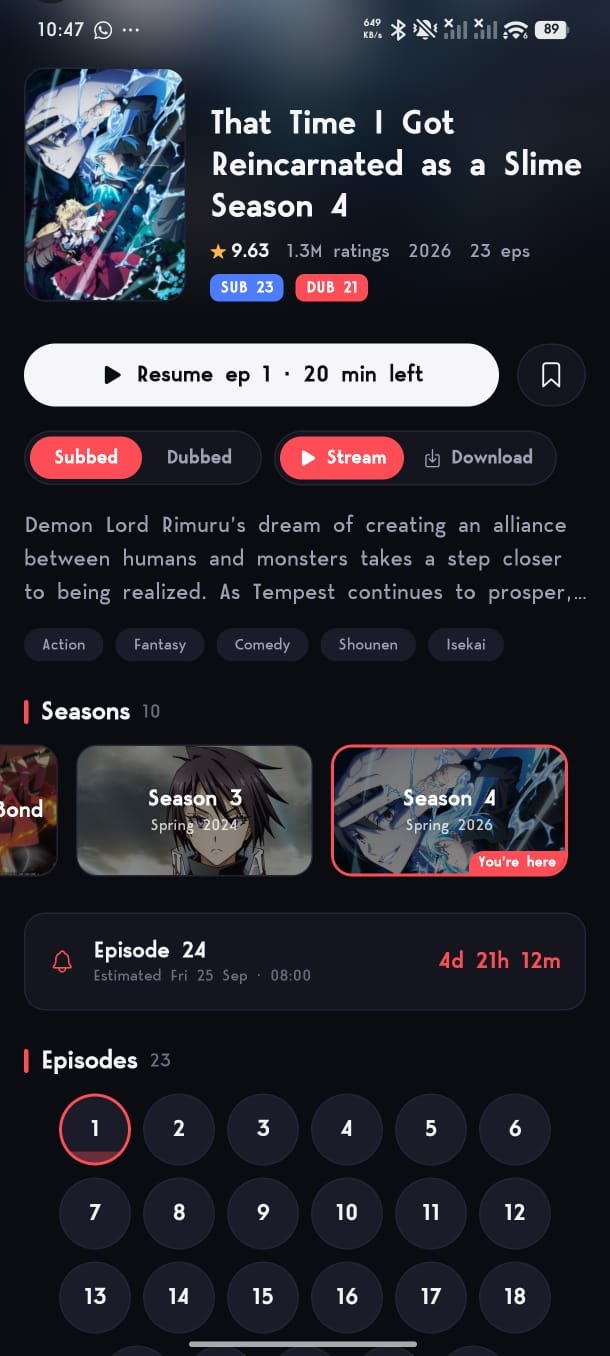
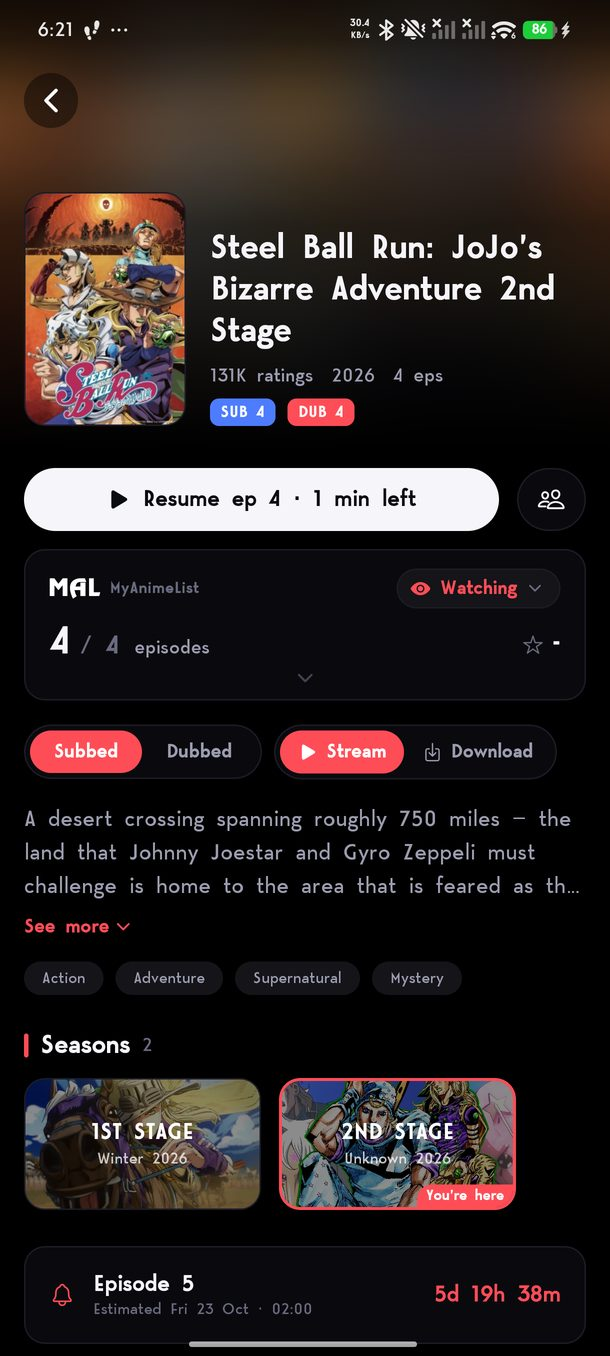
Every screenshot from 5.0, a gallery at the top, Saved and Schedule with a section of their own, and everything new since 4.1: filler, server handover, smooth gradients, lighter on data

diff --git a/tsuzuku/index.html b/tsuzuku/index.html
@@ -84,6 +84,83 @@
   </p>
 </section>
 
+<!-- ── gallery ───────────────────────────────────────────────────────── -->
+<section class="gallery" id="gallery" aria-label="Screenshots">
+  <div class="gal-head">
+    <h2 class="gal-title">A look around</h2>
+    <div class="gal-nav">
+      <button class="gal-btn" type="button" data-gal="-1" aria-label="Previous screenshots">&larr;</button>
+      <button class="gal-btn" type="button" data-gal="1" aria-label="Next screenshots">&rarr;</button>
+    </div>
+  </div>
+  <div class="gal-track" tabindex="0">
+      <figure class="gal-item">
+        <img src="/tsuzuku/images/home.jpg" alt="Home, with the TV, watch party and rankings buttons in the corner." loading="lazy" decoding="async" width="610" height="1356">
+        <figcaption>Home</figcaption>
+      </figure>
+      <figure class="gal-item">
+        <img src="/tsuzuku/images/5/party.jpg" alt="A watch party with chat and reactions." loading="lazy" decoding="async" width="610" height="1356">
+        <figcaption>Watch party</figcaption>
+      </figure>
+      <figure class="gal-item gal-wide">
+        <img src="/tsuzuku/images/5/party-full.jpg" alt="Party messages fading in above the subtitles in full screen." loading="lazy" decoding="async" width="1356" height="610">
+        <figcaption>Chat in full screen</figcaption>
+      </figure>
+      <figure class="gal-item">
+        <img src="/tsuzuku/images/saved.jpg" alt="Saved, with new episodes on top and quick filters." loading="lazy" decoding="async" width="610" height="1356">
+        <figcaption>Saved</figcaption>
+      </figure>
+      <figure class="gal-item">
+        <img src="/tsuzuku/images/schedule.jpg" alt="The schedule, with reminders and what aired on your list." loading="lazy" decoding="async" width="610" height="1356">
+        <figcaption>Schedule</figcaption>
+      </figure>
+      <figure class="gal-item">
+        <img src="/tsuzuku/images/series.jpg" alt="A series page with MyAnimeList status, seasons and a countdown." loading="lazy" decoding="async" width="610" height="1356">
+        <figcaption>Series page</figcaption>
+      </figure>
+      <figure class="gal-item">
+        <img src="/tsuzuku/images/5/filler.jpg" alt="Filler episodes ringed in dashed amber in the episode list." loading="lazy" decoding="async" width="610" height="1356">
+        <figcaption>Filler, marked</figcaption>
+      </figure>
+      <figure class="gal-item gal-wide">
+        <img src="/tsuzuku/images/player.jpg" alt="The player in full screen with its controls up." loading="lazy" decoding="async" width="1356" height="610">
+        <figcaption>The player</figcaption>
+      </figure>
+      <figure class="gal-item">
+        <img src="/tsuzuku/images/5/profile.jpg" alt="Your rank, your place on the boards and the weekly challenge." loading="lazy" decoding="async" width="610" height="1356">
+        <figcaption>Your rank</figcaption>
+      </figure>
+      <figure class="gal-item">
+        <img src="/tsuzuku/images/5/titles.jpg" alt="The secret titles deck, with the Pioneer card earned." loading="lazy" decoding="async" width="610" height="1356">
+        <figcaption>Secret titles</figcaption>
+      </figure>
+      <figure class="gal-item gal-wide">
+        <img src="/tsuzuku/images/5/party-controls.jpg" alt="Full screen with the controls up: reply, react or end the party." loading="lazy" decoding="async" width="1356" height="610">
+        <figcaption>Reply in full screen</figcaption>
+      </figure>
+      <figure class="gal-item">
+        <img src="/tsuzuku/images/downloads.jpg" alt="Downloads, with what each series takes up." loading="lazy" decoding="async" width="610" height="1356">
+        <figcaption>Downloads</figcaption>
+      </figure>
+      <figure class="gal-item gal-wide">
+        <img src="/tsuzuku/images/5/picture.jpg" alt="The player&rsquo;s picture controls: Vivid, brightness, contrast and more." loading="lazy" decoding="async" width="1356" height="610">
+        <figcaption>Picture controls</figcaption>
+      </figure>
+      <figure class="gal-item">
+        <img src="/tsuzuku/images/themes.jpg" alt="Theme presets, true black and accent colours." loading="lazy" decoding="async" width="610" height="1356">
+        <figcaption>Themes</figcaption>
+      </figure>
+      <figure class="gal-item">
+        <img src="/tsuzuku/images/5/home-edit.jpg" alt="The Edit Home button at the bottom of Home." loading="lazy" decoding="async" width="610" height="1356">
+        <figcaption>Edit Home</figcaption>
+      </figure>
+      <figure class="gal-item">
+        <img src="/tsuzuku/images/5/settings.jpg" alt="Settings, from setup to your lists." loading="lazy" decoding="async" width="610" height="1356">
+        <figcaption>Settings</figcaption>
+      </figure>
+  </div>
+</section>
+
 <!-- ── watch together ────────────────────────────────────────────────── -->
 <section class="band" id="together">
   <div class="shell">
@@ -207,15 +284,15 @@
       </div>
 
       <div class="sub">
-        <h3 class="sub-head">Also new in 5.0</h3>
+        <h3 class="sub-head">Also new since 4.1</h3>
         <figure class="shot shot-wide">
           <img src="/tsuzuku/images/5/picture.jpg" alt="The player's Picture settings: Original or Vivid, smooth gradients, and sliders for brightness, contrast, shadows and colour." loading="lazy" decoding="async" width="1356" height="610">
         </figure>
         <div class="cols cols-3">
           <div class="note">
             <h3>Picture controls</h3>
-            <p>Brightness, contrast, colour and sharpness in the player settings, or one tap
-              on Vivid.</p>
+            <p>Brightness, contrast, shadows, colour and sharpness in the player settings, or
+              one tap on Vivid. Smooth gradients takes the stripes out of skies and shadows.</p>
           </div>
           <div class="note">
             <h3>Your list, backed up</h3>
@@ -224,13 +301,113 @@
           </div>
           <div class="note">
             <h3>Home your way</h3>
-            <p>Add the lists and genres you want to Home and put them in your order. Share a
-              list of shows with a link.</p>
+            <p>Edit Home, at the very bottom of Home, adds the lists and genres you want and
+              puts them in your order. Share a list of shows with a link.</p>
+          </div>
+        </div>
+
+        <div class="split">
+          <figure class="shot shot-phone">
+            <img src="/tsuzuku/images/5/filler.jpg" alt="One Piece's episode list, with episodes 54 to 60 ringed in dashed amber and a Filler key above the grid." loading="lazy" decoding="async" width="610" height="1356">
+          </figure>
+          <div class="cols cols-1">
+            <div class="note">
+              <h3>Filler episodes, marked</h3>
+              <p>Episodes made for the anime and not in the manga get a dashed amber ring in
+                the episode list, with a key to say what it means. You can still play them.</p>
+            </div>
+            <div class="note">
+              <h3>Skip filler</h3>
+              <p>Turn it on and Next and autoplay go straight past filler. The autoplay card
+                says which run it is stepping over, and the next episode says what it skipped.</p>
+            </div>
+            <div class="note">
+              <h3>Keeps your place when a server fails</h3>
+              <p>If a server stops partway through, the next one picks up at the same second,
+                and the intro and outro skips come with it.</p>
+            </div>
+          </div>
+        </div>
+
+        <div class="cols cols-3">
+          <div class="note">
+            <h3>Lighter on data</h3>
+            <p>The wallpapers on series pages only load if you turn them on, in Display or in
+              setup.</p>
+          </div>
+          <div class="note">
+            <h3>Big fonts fit</h3>
+            <p>Phones set to a larger or taller system font no longer cut off headings and
+              titles.</p>
+          </div>
+          <div class="note">
+            <h3>Exports that ask again</h3>
+            <p>If the folder you save episodes to is deleted or loses permission, Tsuzuku asks
+              for a new one instead of failing every episode.</p>
           </div>
         </div>
         <p class="sub-lede">Only what you choose goes online. Joining the rankings sends the
           show, the episode number and its length for each episode you finish. Sharing what you
           watch, the backup and problem reports are switches in Settings, all off to start.</p>
+      </div>
+    </div>
+  </div>
+</section>
+
+<!-- ── saved and schedule ────────────────────────────────────────────── -->
+<section class="band" id="saved">
+  <div class="shell">
+    <div class="band-body">
+      <header class="head">
+        <h2>Saved and Schedule</h2>
+        <img class="rule" src="/tsuzuku/images/rule.png" alt="">
+        <p class="head-lede">Both rebuilt around one question: what can I watch next?</p>
+      </header>
+
+      <div class="split">
+        <figure class="shot shot-phone">
+          <img src="/tsuzuku/images/saved.jpg" alt="Saved: a search bar, a row of new episodes from shows being watched, the status tabs, quick filters and the posters." loading="lazy" decoding="async" width="610" height="1356">
+        </figure>
+        <div class="cols cols-1">
+          <div class="note">
+            <h3>New episodes first</h3>
+            <p>Shows you are watching that have a new episode sit at the top, newest first,
+              with which episode you are on and a button to start the next one.</p>
+          </div>
+          <div class="note">
+            <h3>Search, sort and filter</h3>
+            <p>Find any saved series by name. Sort by last watched, recently added, title,
+              your score or episodes left, and narrow it down by score, progress, airing,
+              length or genre.</p>
+          </div>
+          <div class="note">
+            <h3>Quick filters</h3>
+            <p>New episode and Behind under Watching, your score under Completed, short or long
+              under Plan to watch &mdash; one tap each.</p>
+          </div>
+        </div>
+      </div>
+
+      <div class="split split-flip">
+        <figure class="shot shot-phone">
+          <img src="/tsuzuku/images/schedule.jpg" alt="The schedule: the next episode on your list counting down, the week along the top, what has aired on your list, and today's episodes with reminder bells." loading="lazy" decoding="async" width="610" height="1356">
+        </figure>
+        <div class="cols cols-1">
+          <div class="note">
+            <h3>What is next, counting down</h3>
+            <p>The next episode of something on your list sits at the top with how long until
+              it airs, in your own time zone.</p>
+          </div>
+          <div class="note">
+            <h3>Mine or everything</h3>
+            <p>See only the shows on your list, or the whole week. Episodes that have already
+              aired on your list are gathered at the top of the day.</p>
+          </div>
+          <div class="note">
+            <h3>Reminders</h3>
+            <p>Tap the bell on an episode and your phone tells you when it is out.</p>
+          </div>
+        </div>
       </div>
     </div>
   </div>
@@ -390,7 +567,7 @@
 
       <div class="split split-flip">
         <figure class="shot shot-phone">
-          <img src="/tsuzuku/images/series.jpg" alt="A series page showing the synopsis, cast and episode list." loading="lazy" decoding="async" width="610" height="1356">
+          <img src="/tsuzuku/images/series.jpg" alt="A series page: your MyAnimeList status and progress, sub and dub, stream or download, the seasons and a countdown to the next episode." loading="lazy" decoding="async" width="610" height="1356">
         </figure>
         <div class="body-text">
           <p>Connect MyAnimeList or AniList and finishing an episode here finishes it there.
@@ -575,20 +752,20 @@
 
       <div class="trio">
         <figure class="shot shot-phone">
-          <img src="/tsuzuku/images/home.jpg" alt="The home screen, opening on Continue Watching." loading="lazy" decoding="async" width="610" height="1356">
+          <img src="/tsuzuku/images/home.jpg" alt="Home: a spotlight series, the TV, watch party and rankings buttons, Continue Watching and Picked for you." loading="lazy" decoding="async" width="610" height="1356">
           <figcaption>Home</figcaption>
         </figure>
         <figure class="shot shot-phone">
-          <img src="/tsuzuku/images/schedule.jpg" alt="The schedule, with the week along the top and today's episodes below." loading="lazy" decoding="async" width="575" height="1280">
-          <figcaption>Schedule</figcaption>
+          <img src="/tsuzuku/images/5/home-edit.jpg" alt="The bottom of Home, with the Edit Home button for adding genres and lists." loading="lazy" decoding="async" width="610" height="1356">
+          <figcaption>Edit Home, at the bottom of Home</figcaption>
         </figure>
         <figure class="shot shot-phone">
-          <img src="/tsuzuku/images/saved.jpg" alt="The saved list as a wall of posters." loading="lazy" decoding="async" width="575" height="1280">
-          <figcaption>Saved</figcaption>
+          <img src="/tsuzuku/images/5/settings.jpg" alt="Settings: setup, rankings, theme, playback, display, subtitles, downloads, notifications, online and your lists." loading="lazy" decoding="async" width="610" height="1356">
+          <figcaption>Settings</figcaption>
         </figure>
         <figure class="shot shot-phone">
-          <img src="/tsuzuku/images/themes.jpg" alt="The display settings, with colour presets and a pure black option." loading="lazy" decoding="async" width="575" height="1280">
-          <figcaption>Display settings</figcaption>
+          <img src="/tsuzuku/images/themes.jpg" alt="The theme settings: a preview, colour presets, true black and the accent colours." loading="lazy" decoding="async" width="610" height="1356">
+          <figcaption>Themes and accent colour</figcaption>
         </figure>
       </div>
 

diff --git a/tsuzuku/style.css b/tsuzuku/style.css
@@ -385,6 +385,38 @@ a { color: inherit; }
     border-bottom: 1px solid var(--seal-lit);
 }
 
+/* ── gallery ───────────────────────────────────────────────────────────── */
+.gallery { padding: clamp(40px, 6vw, 80px) 0 clamp(20px, 3vw, 40px); }
+.gal-head {
+    display: flex; align-items: end; justify-content: space-between; gap: 16px;
+    width: min(1180px, 100% - 32px); margin-inline: auto;
+}
+.gal-title { font: 600 clamp(22px, 2.6vw, 31px)/1.2 var(--display); letter-spacing: -0.012em; }
+.gal-nav { display: flex; gap: 8px; }
+.gal-btn {
+    width: 44px; height: 44px; border-radius: 50%; cursor: pointer;
+    font-size: 18px; color: inherit; background: rgba(231, 231, 233, .06);
+    border: 1px solid rgba(231, 231, 233, .14);
+}
+.gal-btn:hover { background: rgba(231, 231, 233, .12); }
+.gal-btn:focus-visible, .gal-track:focus-visible { outline: 2px solid var(--seal); outline-offset: 3px; }
+.gal-track {
+    display: flex; gap: clamp(14px, 2vw, 24px); align-items: flex-start;
+    overflow-x: auto; scroll-snap-type: x mandatory; scroll-behavior: smooth;
+    padding: 26px max(16px, (100% - 1180px) / 2) 20px;
+    scroll-padding-inline: max(16px, (100% - 1180px) / 2);
+    scrollbar-width: thin; scrollbar-color: rgba(231, 231, 233, .2) transparent;
+}
+.gal-item { flex: 0 0 auto; width: clamp(170px, 22vw, 240px); scroll-snap-align: start; }
+.gal-wide { width: clamp(330px, 49vw, 540px); }
+.gal-item img {
+    display: block; width: 100%; height: auto; border-radius: 18px; background: #000;
+    box-shadow: 0 24px 60px -26px #000, 0 0 0 1px rgba(231, 231, 233, .09);
+}
+.gal-wide img { border-radius: 8px; }
+.gal-item figcaption { margin-top: 12px; font-size: 14px; color: var(--ash-dim); }
+@media (max-width: 600px) { .gal-nav { display: none; } }
+
 /* ── pictures ─────────────────────────────────────────────────────────── */
 .shot { position: relative; }
 .shot img {

diff --git a/tsuzuku/script.js b/tsuzuku/script.js
@@ -125,3 +125,15 @@
         document.fonts.ready.then(() => ScrollTrigger.refresh());
     }
 })();
+
+// The gallery's arrows: a screenful at a time. Swiping and the keyboard work
+// without them.
+(() => {
+    const track = document.querySelector('.gal-track');
+    if (!track) return;
+    document.querySelectorAll('[data-gal]').forEach((btn) => {
+        btn.addEventListener('click', () => {
+            track.scrollBy({ left: Number(btn.dataset.gal) * track.clientWidth * 0.8 });
+        });
+    });
+})();
